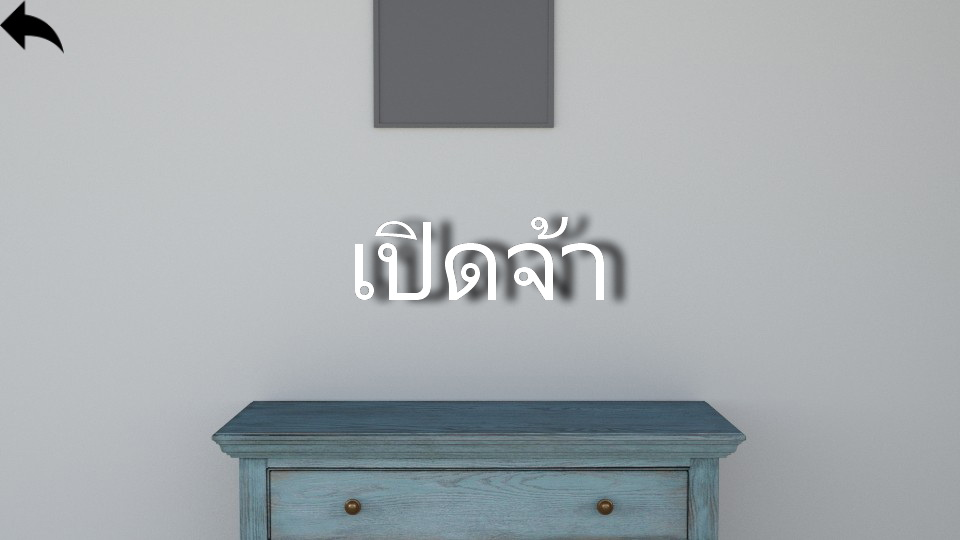
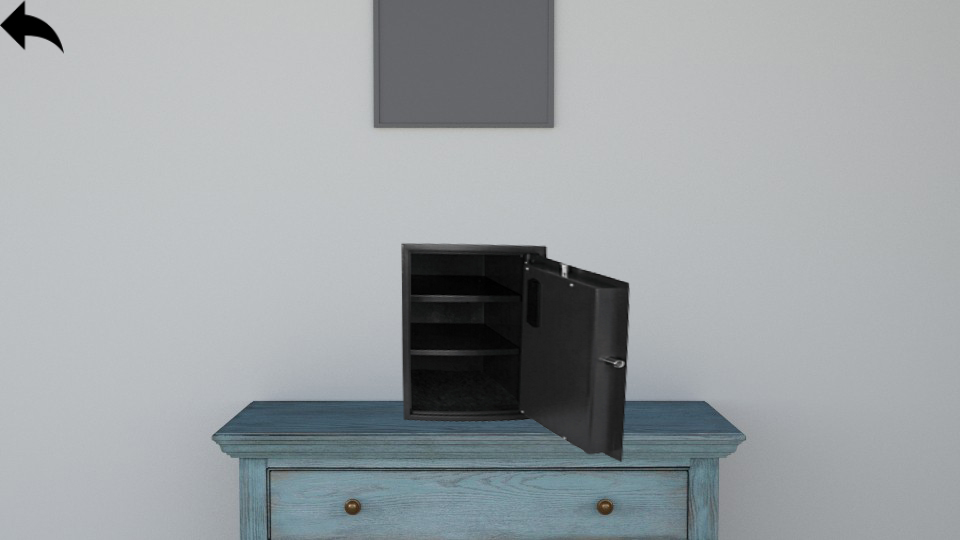
finish clickable logic

Changed region(s): [[0.3438, 0.3852, 0.6562, 0.8593]]

diff --git a/src/Component/Level1.js b/src/Component/Level1.js
@@ -13,7 +13,7 @@ import popupBoxOpenWithPassword from "../images/Level1/popup-openbox.jpg";
 import knifeImage from "../images/Level1/knife.png";
 import keyImage from "../images/Level1/key.png";
 import itemBar from "../images/Level1/itemBar.png"
-import safeclose from "../images/Level1/safeclose.jpg";
+import safeclose from "../images/Level1/safeclose.png";
 import safeopen from "../images/Level1/safeopen.jpg";
 
 import SpeechBar from "./SpeechBar";
@@ -32,11 +32,15 @@ class Level1 extends Component {
     var ctxItem = canvasItem.getContext("2d");
     //var eieiz = this.refs.eiei;
     var ctx = canvas.getContext("2d");
+    ctx.font = "30px Arial"
+    ctx.fillStyle = "green";
     canvas.addEventListener("mousemove", changeCursor, false);
+
     this.setState({
       text: "eiei"
     })
-    function changeCursor(e) {
+
+    function changeCursor(e) { //getตำแหน่ง cursor บน canvas VIA console
       e.preventDefault();
       var rect = canvas.getBoundingClientRect();
       var x = e.clientX - rect.left;
@@ -53,8 +57,8 @@ class Level1 extends Component {
      * == 5 -> roomOpenBoxSafeNoknife
      * == 6 -> popupCloseboxWithKnifeInroom
      * == 7 -> popupCloseboxWithoutKnifeInroom
-     * == 8 -> popupOpenbox -- ยังไม่ได้สร้าง image
-     * == 9 -> zoomAtSafeWithNumpad
+     * == 8 -> popupOpenbox
+     * == 9 -> zoomAtSafeWithNumpad //อาจจะตัดออก(ขี้เกียจแก้สวิตช์)
      * == 10 -> door
      * == 11 -> safeclose
      * == 12 -> safeopen
@@ -108,15 +112,15 @@ class Level1 extends Component {
       );
     };
     canvas.addEventListener("mousedown", changeImage, false); //เพื่ออรับพิกัด Mouse ตลอดเวลา
-    
+
     var hasKnife = false; //ไม่มีมีดเปิดกล่องไม่ได้
     var hasKey = false; //case true = มีกุญแจ
     var isBoxOpen = false;
-    var teststring = '';
+    var playerPass = '';
     function changeImage(e) {
-      console.log('haskey = '+hasKey);
-      console.log('hasknife = '+hasKnife);
-      console.log('isboxopen = '+isBoxOpen);
+      console.log('haskey = ' + hasKey);
+      console.log('hasknife = ' + hasKnife);
+      console.log('isboxopen = ' + isBoxOpen);
       e.preventDefault();
 
       var rect = canvas.getBoundingClientRect();
@@ -143,12 +147,6 @@ class Level1 extends Component {
           } else if (x >= 406 && x < 554 && y >= 146 && y <= 367) { //กดประตู
             img1.src = door;
             currentWall = 10;
-          } else {
-            if (teststring.length === 2) {
-              teststring = '';
-            }
-            teststring += '4';
-            console.log(teststring);
           }
           break;
         case 2: //ตู้ขวา with knife
@@ -237,7 +235,6 @@ class Level1 extends Component {
             hasKey = true;
             img1.src = roomOpenboxSafeNoknife;
             currentWall = 5;
-            item2.src = keyImage;
           }
           break;
         case 10: // door
@@ -255,7 +252,10 @@ class Level1 extends Component {
           } else if (x >= 309 && x < 651 && y >= 0 && y <= 491) { //กดประตูเพื่อเปิด
             if (hasKey) {
               console.log("จบ")
-              return <p>จบแล้วจ้า</p>
+              setTimeout(function () {
+                ctx.font = "150px Roboto";
+                ctx.fillText("จบแล้วจ้า", canvas.width / 2 - 300 , canvas.height / 2);
+              }, 20);
             }
           }
           break;
@@ -271,10 +271,168 @@ class Level1 extends Component {
               img1.src = roomOpenboxSafeNoknife;
               currentWall = 5;
             }
-          } else if (x >= 357 && x < 604 && y >= 172 && y <= 420) {
-            img1.src = safeopen;
-            currentWall = 12;
-            hasKey = true;
+          } else if (x >= 476 && x < 492 && y >= 375 && y <= 387) {
+            if (playerPass.length === 2) {
+              playerPass = '';
+            }
+            playerPass += '0';
+            img1.src = safeclose;
+            setTimeout(function () {
+              ctx.fillText(playerPass, 465, 302);
+            }, 20);
+            if (playerPass === '44') {
+              img1.src = safeopen;
+              currentWall = 12;
+              item2.src = keyImage;
+              hasKey = true;
+            }
+            console.log(playerPass);
+          } else if (x >= 444 && x < 463 && y >= 325 && y <= 338) {
+            if (playerPass.length === 2) {
+              playerPass = '';
+            }
+            playerPass += '1';
+            img1.src = safeclose;
+            setTimeout(function () {
+              ctx.fillText(playerPass, 465, 302);
+            }, 20);
+            if (playerPass === '44') {
+              img1.src = safeopen;
+              currentWall = 12;
+              item2.src = keyImage;
+              hasKey = true;
+            }
+            console.log(playerPass);
+          } else if (x >= 476 && x < 492 && y >= 325 && y <= 338) {
+            if (playerPass.length === 2) {
+              playerPass = '';
+            }
+            playerPass += '2';
+            img1.src = safeclose;
+            setTimeout(function () {
+              ctx.fillText(playerPass, 465, 302);
+            }, 20);
+            if (playerPass === '44') {
+              img1.src = safeopen;
+              currentWall = 12;
+              item2.src = keyImage;
+              hasKey = true;
+            }
+            console.log(playerPass);
+          } else if (x >= 505 && x < 521 && y >= 325 && y <= 338) {
+            if (playerPass.length === 2) {
+              playerPass = '';
+            }
+            playerPass += '3';
+            img1.src = safeclose;
+            setTimeout(function () {
+              ctx.fillText(playerPass, 465, 302);
+            }, 20);
+            if (playerPass === '44') {
+              img1.src = safeopen;
+              currentWall = 12;
+              item2.src = keyImage;
+              hasKey = true;
+            }
+            console.log(playerPass);
+          } else if (x >= 444 && x < 463 && y >= 343 && y <= 354) {
+            if (playerPass.length === 2) {
+              playerPass = '';
+            }
+            playerPass += '4';
+            img1.src = safeclose;
+            setTimeout(function () {
+              ctx.fillText(playerPass, 465, 302);
+            }, 20);
+            if (playerPass === '44') {
+              setTimeout(function () {
+                img1.src = safeopen;
+                currentWall = 12;
+                item2.src = keyImage;
+                hasKey = true;
+              }, 30);
+            }
+            console.log(playerPass);
+          } else if (x >= 476 && x < 492 && y >= 343 && y <= 354) {
+            if (playerPass.length === 2) {
+              playerPass = '';
+            }
+            playerPass += '5';
+            img1.src = safeclose;
+            setTimeout(function () {
+              ctx.fillText(playerPass, 465, 302);
+            }, 20);
+            if (playerPass === '44') {
+              img1.src = safeopen;
+              currentWall = 12;
+              item2.src = keyImage;
+              hasKey = true;
+            }
+            console.log(playerPass);
+          } else if (x >= 505 && x < 521 && y >= 343 && y <= 354) {
+            if (playerPass.length === 2) {
+              playerPass = '';
+            }
+            playerPass += '6';
+            img1.src = safeclose;
+            setTimeout(function () {
+              ctx.fillText(playerPass, 465, 302);
+            }, 20);
+            if (playerPass === '44') {
+              img1.src = safeopen;
+              currentWall = 12;
+              item2.src = keyImage;
+              hasKey = true;
+            }
+            console.log(playerPass);
+          } else if (x >= 444 && x < 463 && y >= 359 && y <= 371) {
+            if (playerPass.length === 2) {
+              playerPass = '';
+            }
+            playerPass += '7';
+            img1.src = safeclose;
+            setTimeout(function () {
+              ctx.fillText(playerPass, 465, 302);
+            }, 20);
+            if (playerPass === '44') {
+              img1.src = safeopen;
+              currentWall = 12;
+              item2.src = keyImage;
+              hasKey = true;
+            }
+            console.log(playerPass);
+          } else if (x >= 476 && x < 492 && y >= 359 && y <= 371) {
+            if (playerPass.length === 2) {
+              playerPass = '';
+            }
+            playerPass += '8';
+            img1.src = safeclose;
+            setTimeout(function () {
+              ctx.fillText(playerPass, 465, 302);
+            }, 20);
+            if (playerPass === '44') {
+              img1.src = safeopen;
+              currentWall = 12;
+              item2.src = keyImage;
+              hasKey = true;
+            }
+            console.log(playerPass);
+          } else if (x >= 505 && x < 521 && y >= 359 && y <= 371) {
+            if (playerPass.length === 2) {
+              playerPass = '';
+            }
+            playerPass += '9';
+            img1.src = safeclose;
+            setTimeout(function () {
+              ctx.fillText(playerPass, 465, 302);
+            }, 20);
+            if (playerPass === '44') {
+              img1.src = safeopen;
+              currentWall = 12;
+              item2.src = keyImage;
+              hasKey = true;
+            }
+            console.log(playerPass);
           }
           break;
         case 12:

diff --git a/src/Component/SpeechBar.js b/src/Component/SpeechBar.js
@@ -7,8 +7,8 @@ class SpeechBar extends Component {
   render() {
     return (
       <div className="speechbar">
-        <img ref="mic" src={microphone} alt="microphone" width={100} height={100}></img>
-        <h1 className="asrText">ทดสอบข้อความภาษาไทย</h1>
+        <img ref="mic" src={microphone} alt="microphone" width={100} height={100} onClick={{ /*รอเชื่อม ASR*/ }}></img>
+        <h1 className="asrText">ข้อความจาก ASR อยู่ตรงนี้</h1>
         <p className='texttest'>{this.props.text}</p>
       </div>
     );

diff --git a/src/CSS/StartPage.css b/src/CSS/StartPage.css
@@ -1,4 +1,6 @@
 .startButton {
-    margin-top: calc(320px - 10.5px);
-    margin-left: calc(1095px/2 - 43.19px);
+    margin-top: calc(320px - 20px);
+    margin-left: calc(1095px/2 - 50px);
+    height: 40px;
+    width: 100px;
 }
